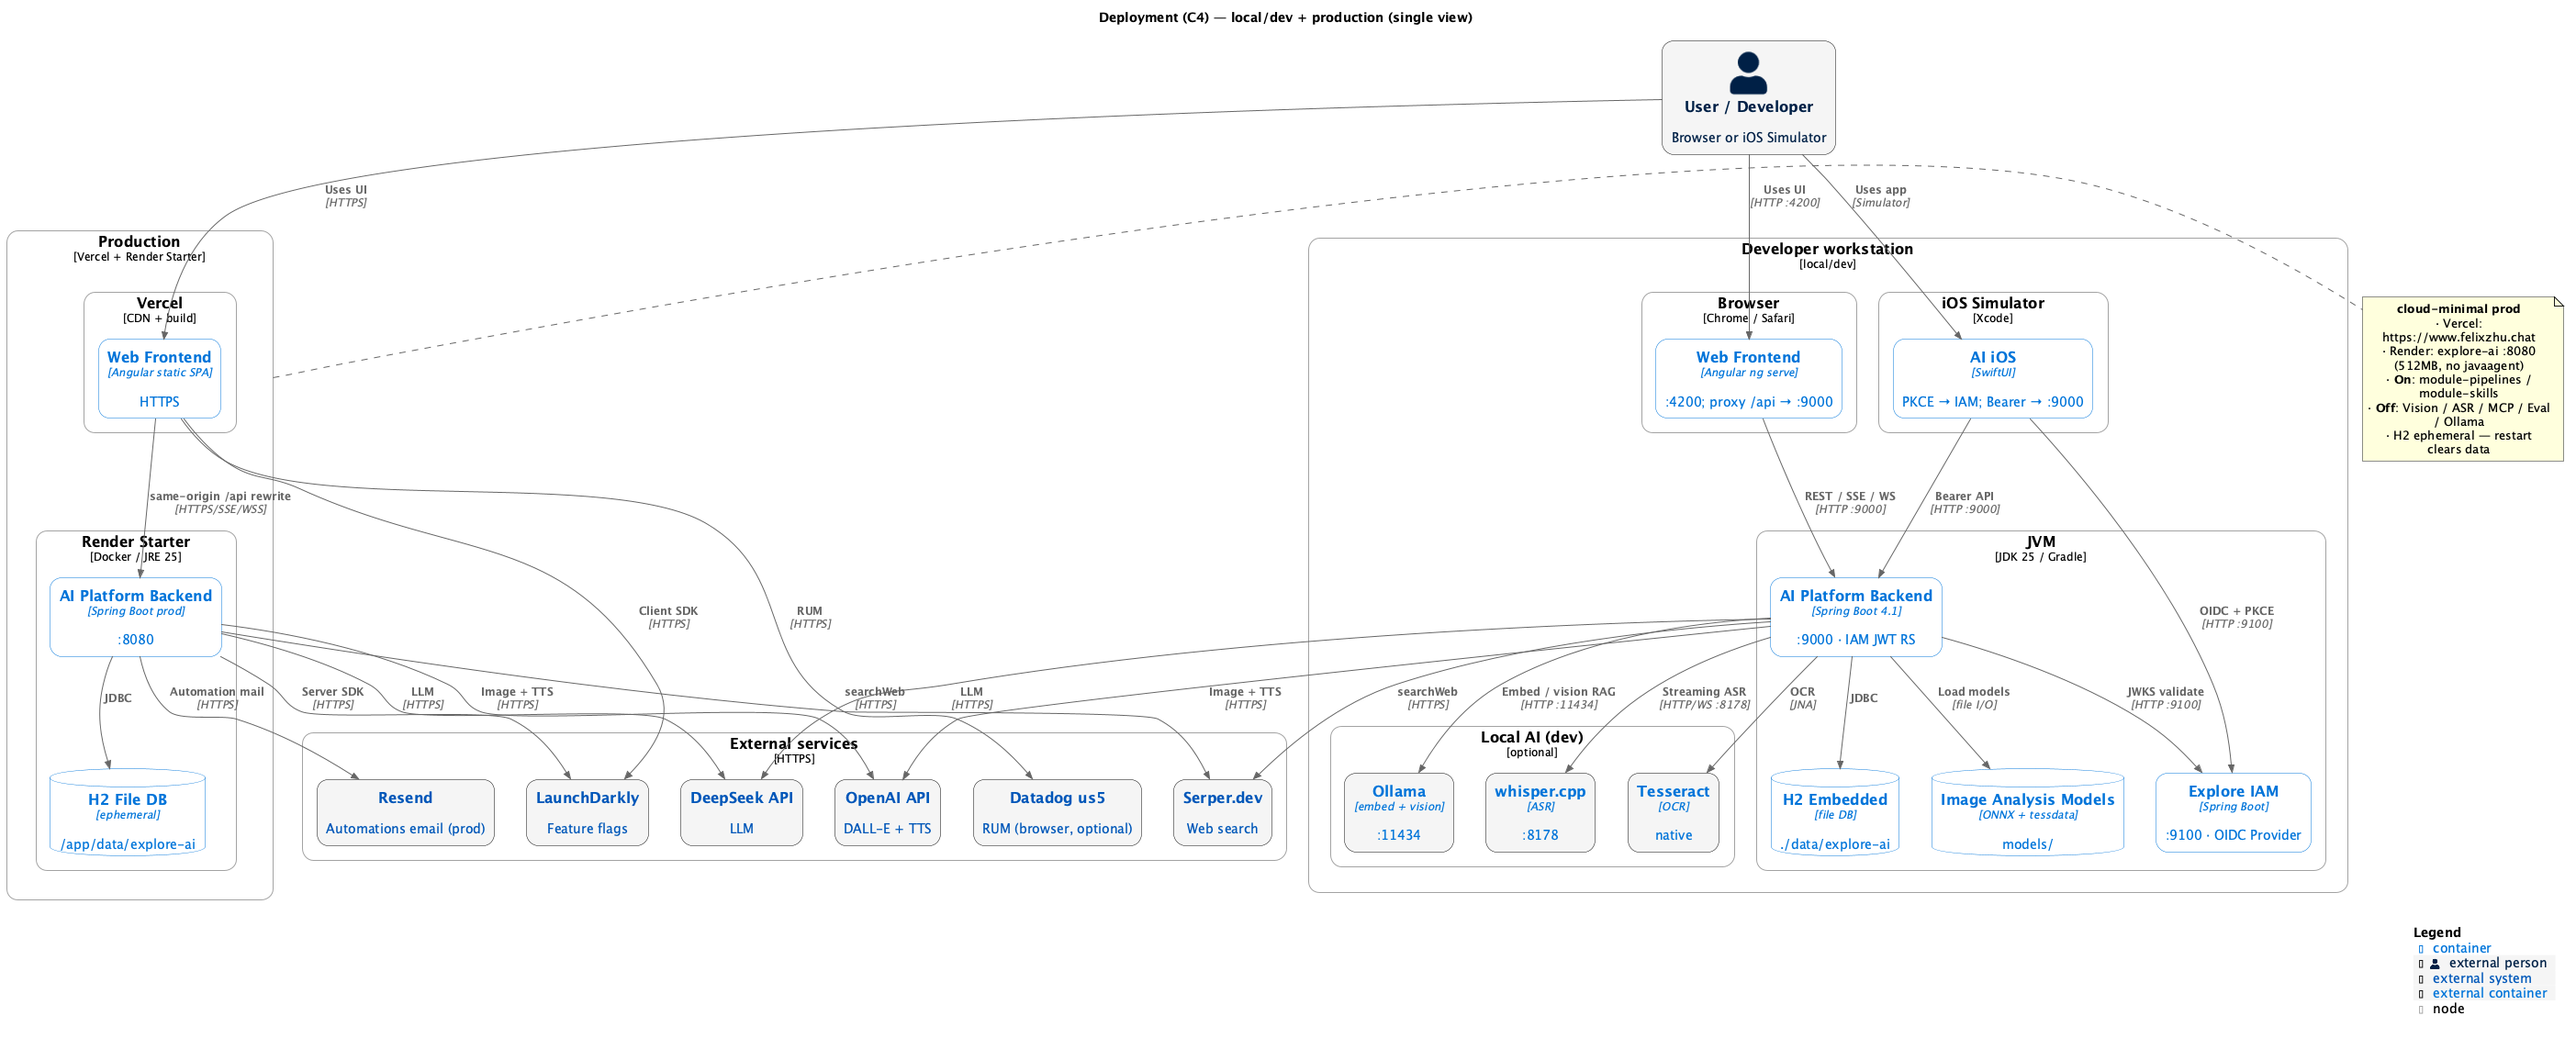
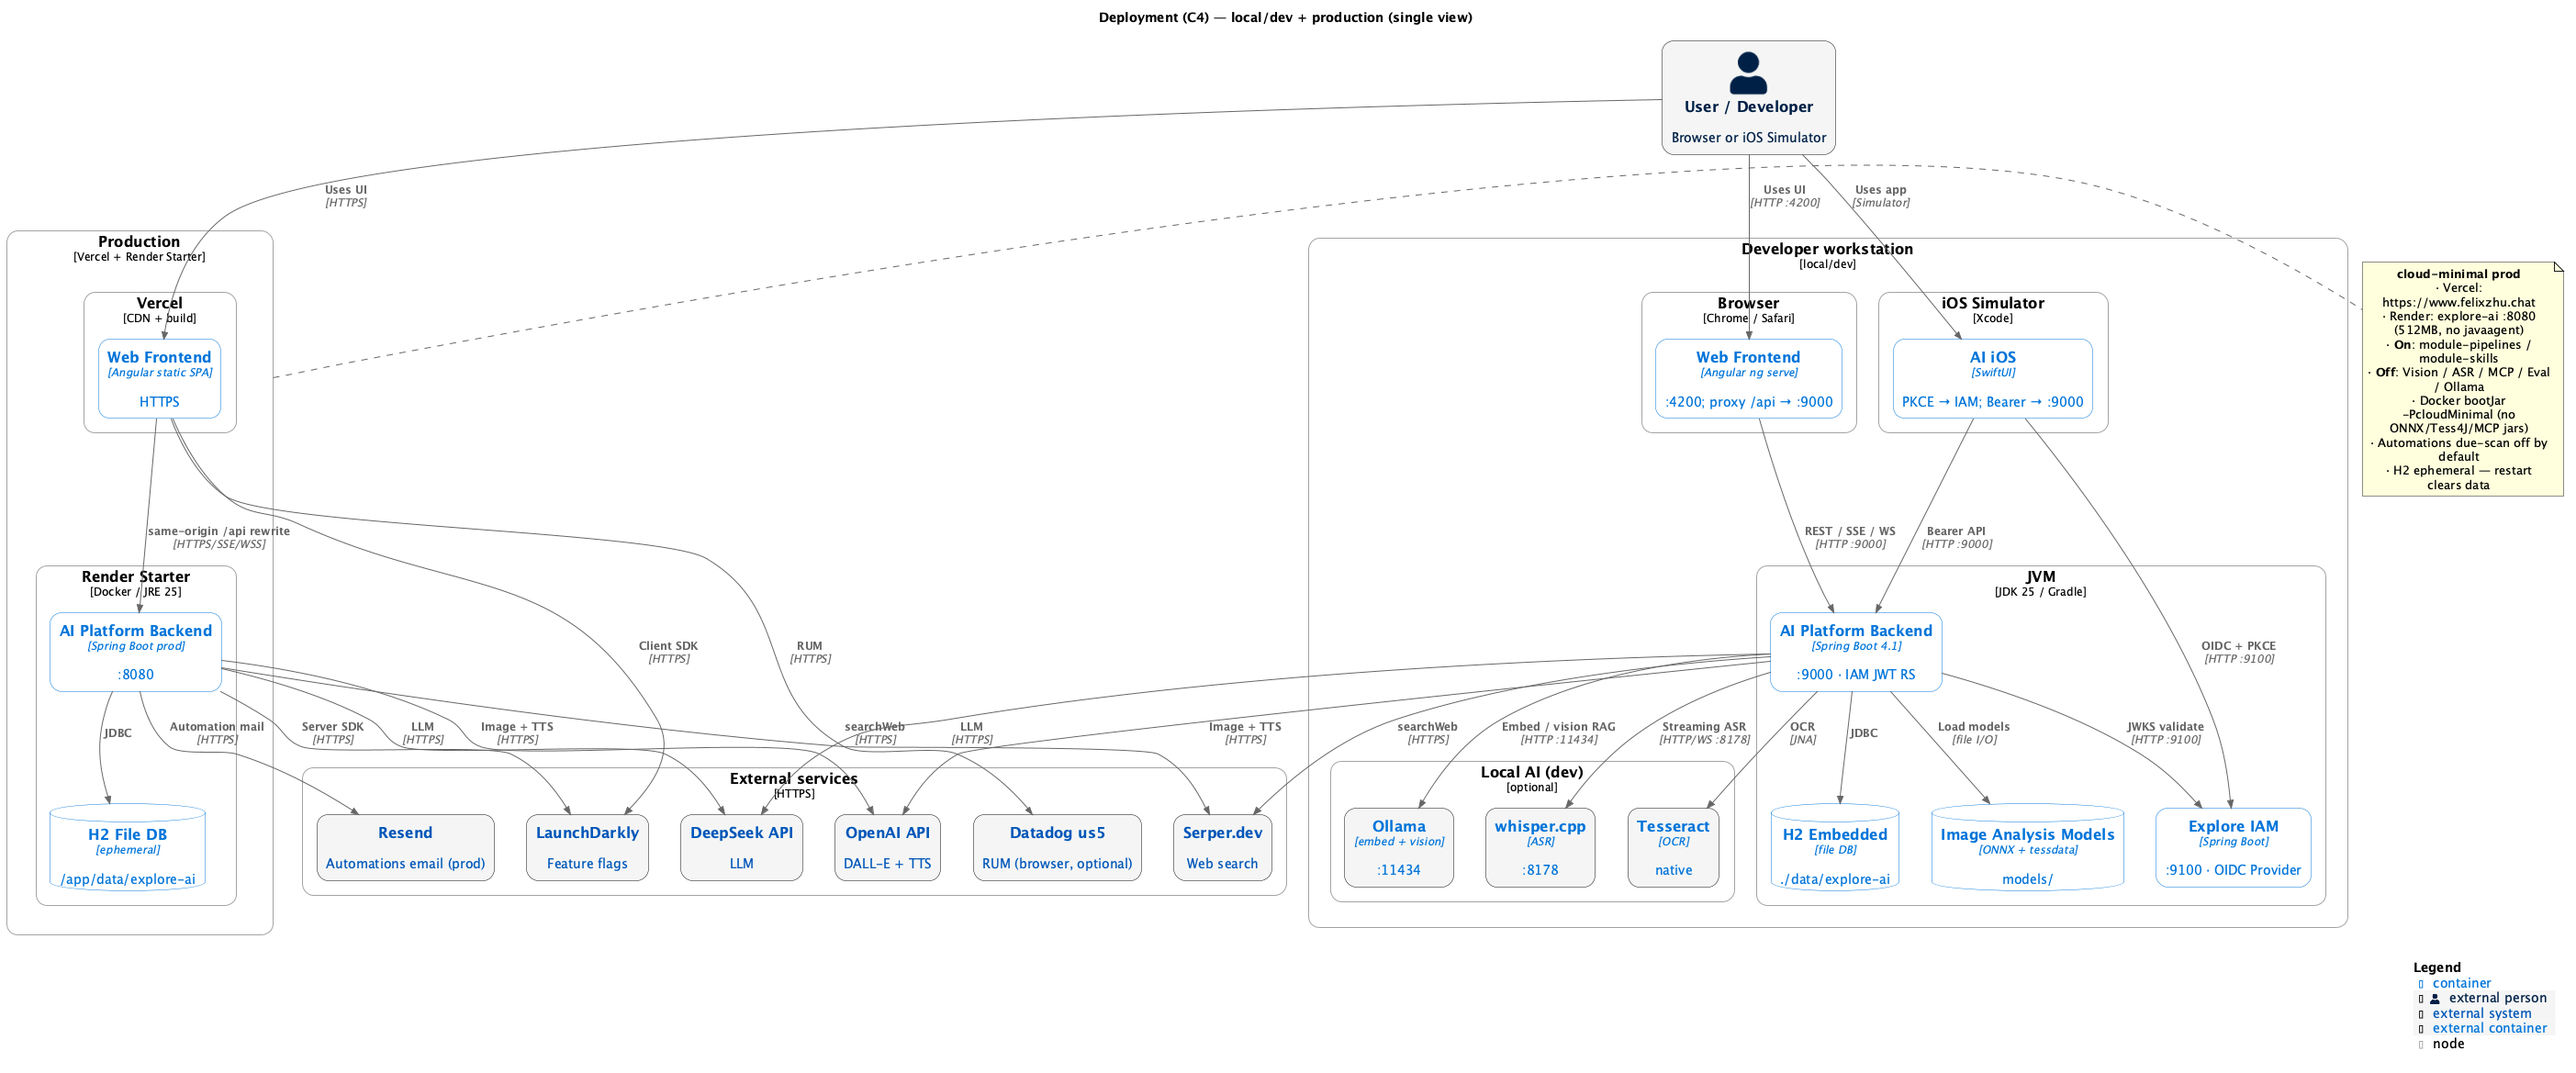
Shrink Render cloud-minimal AI runtime footprint
Drop unused Ollama embedding and automation scans in prod,
build the Docker fat JAR without ONNX/Tess4J/MCP, and gate
lab module beans so Starter RAM goes to Chat instead of idle
classpath weight.

References:

- https://docs.spring.io/spring-boot/reference/features/developing-auto-configuration.html#features.developing-auto-configuration.condition-annotations
- https://docs.spring.io/spring-ai/reference/2.0-SNAPSHOT/api/embeddings/ollama-embeddings.html
- https://docs.gradle.org/current/userguide/java_library_plugin.html#sec:java_library_configurations_graph
- https://render.com/docs/docker

diff --git a/ai/src/test/java/com/ai/metrics/infra/health/DomainHealthGatewayTest.java b/ai/src/test/java/com/ai/metrics/infra/health/DomainHealthGatewayTest.java
@@ -3,6 +3,7 @@ package com.ai.metrics.infra.health;
 import static org.assertj.core.api.Assertions.assertThat;
 import static org.mockito.ArgumentMatchers.eq;
 import static org.mockito.ArgumentMatchers.isNull;
+import static org.mockito.Mockito.lenient;
 import static org.mockito.Mockito.mock;
 import static org.mockito.Mockito.when;
 
@@ -19,6 +20,7 @@ import org.junit.jupiter.api.Test;
 import org.junit.jupiter.api.extension.ExtendWith;
 import org.mockito.Mock;
 import org.mockito.junit.jupiter.MockitoExtension;
+import org.springframework.beans.factory.ObjectProvider;
 
 @ExtendWith(MockitoExtension.class)
 @DisplayName("DomainHealthGateway")
@@ -28,11 +30,14 @@ class DomainHealthGatewayTest {
 
   @Mock private McpFacade mcpFacade;
 
+  @Mock private ObjectProvider<McpFacade> mcpFacadeProvider;
+
   private DomainHealthGateway gateway;
 
   @BeforeEach
   void setUp() {
-    gateway = new DomainHealthGateway(pipelineFacade, mcpFacade);
+    lenient().when(mcpFacadeProvider.getIfAvailable()).thenReturn(mcpFacade);
+    gateway = new DomainHealthGateway(pipelineFacade, mcpFacadeProvider);
   }
 
   @Test
@@ -92,5 +97,18 @@ class DomainHealthGatewayTest {
     assertThat(health).containsEntry("status", "UP");
     assertThat(health).containsEntry("registeredTools", 5);
     assertThat(health).containsEntry("connectedServers", 2);
+  }
+
+  @Test
+  @DisplayName("should report mcp disabled when facade bean is absent")
+  void shouldReportMcpDisabledWhenFacadeBeanIsAbsent() {
+    when(mcpFacadeProvider.getIfAvailable()).thenReturn(null);
+    gateway = new DomainHealthGateway(pipelineFacade, mcpFacadeProvider);
+
+    Map<String, Object> health = gateway.mcpHealth();
+
+    assertThat(health).containsEntry("status", "DISABLED");
+    assertThat(health).containsEntry("registeredTools", 0);
+    assertThat(health).containsEntry("connectedServers", 0);
   }
 }

diff --git a/ai/src/main/java/com/ai/metrics/infra/health/DomainHealthGateway.java b/ai/src/main/java/com/ai/metrics/infra/health/DomainHealthGateway.java
@@ -7,6 +7,7 @@ import com.ai.pipeline.service.usecase.PipelineFacade;
 import java.util.LinkedHashMap;
 import java.util.List;
 import java.util.Map;
+import org.springframework.beans.factory.ObjectProvider;
 import org.springframework.stereotype.Component;
 
 /** Documentation. */
@@ -14,10 +15,10 @@ import org.springframework.stereotype.Component;
 public class DomainHealthGateway implements MetricsHealthGateway {
 
   private final PipelineFacade pipelineFacade;
-  private final McpFacade mcpFacade;
+  private final ObjectProvider<McpFacade> mcpFacade;
 
   /** Documentation. */
-  public DomainHealthGateway(PipelineFacade pipelineFacade, McpFacade mcpFacade) {
+  public DomainHealthGateway(PipelineFacade pipelineFacade, ObjectProvider<McpFacade> mcpFacade) {
     this.pipelineFacade = pipelineFacade;
     this.mcpFacade = mcpFacade;
   }
@@ -41,9 +42,16 @@ public class DomainHealthGateway implements MetricsHealthGateway {
   @Override
   public Map<String, Object> mcpHealth() {
     Map<String, Object> result = new LinkedHashMap<>();
+    McpFacade facade = mcpFacade.getIfAvailable();
+    if (facade == null) {
+      result.put("status", "DISABLED");
+      result.put("registeredTools", 0);
+      result.put("connectedServers", 0);
+      return result;
+    }
     result.put("status", "UP");
-    result.put("registeredTools", mcpFacade.getTotalToolCount());
-    result.put("connectedServers", mcpFacade.getConnectedServers().size());
+    result.put("registeredTools", facade.getTotalToolCount());
+    result.put("connectedServers", facade.getConnectedServers().size());
     return result;
   }
 }

diff --git a/ai/src/main/java/com/ai/mcp/controller/McpClientController.java b/ai/src/main/java/com/ai/mcp/controller/McpClientController.java
@@ -7,6 +7,7 @@ import java.util.List;
 import java.util.Map;
 import org.slf4j.Logger;
 import org.slf4j.LoggerFactory;
+import org.springframework.boot.autoconfigure.condition.ConditionalOnProperty;
 import org.springframework.http.ResponseEntity;
 import org.springframework.web.bind.annotation.GetMapping;
 import org.springframework.web.bind.annotation.PostMapping;
@@ -18,6 +19,11 @@ import org.springframework.web.bind.annotation.RestController;
 @RestController
 @RequestMapping("/api/mcp/client")
 @Tag(name = "MCP Client", description = "Connect to external MCP servers and use their tools")
+@ConditionalOnProperty(
+    prefix = "launchdarkly.bootstrap",
+    name = "module-mcp",
+    havingValue = "true",
+    matchIfMissing = false)
 public class McpClientController {
 
   private static final Logger log = LoggerFactory.getLogger(McpClientController.class);

diff --git a/ai/src/main/java/com/ai/eval/controller/EvalController.java b/ai/src/main/java/com/ai/eval/controller/EvalController.java
@@ -8,6 +8,7 @@ import com.ai.eval.service.usecase.ChatQualityEvaluator;
 import jakarta.validation.Valid;
 import org.slf4j.Logger;
 import org.slf4j.LoggerFactory;
+import org.springframework.boot.autoconfigure.condition.ConditionalOnProperty;
 import org.springframework.http.ResponseEntity;
 import org.springframework.web.bind.annotation.PostMapping;
 import org.springframework.web.bind.annotation.RequestBody;
@@ -17,6 +18,11 @@ import org.springframework.web.bind.annotation.RestController;
 /** REST controller for chat evaluation endpoints. */
 @RestController
 @RequestMapping("/api/eval")
+@ConditionalOnProperty(
+    prefix = "launchdarkly.bootstrap",
+    name = "module-eval",
+    havingValue = "true",
+    matchIfMissing = false)
 public class EvalController {
 
   private static final Logger log = LoggerFactory.getLogger(EvalController.class);

diff --git a/ai/src/main/java/com/ai/mcp/controller/McpController.java b/ai/src/main/java/com/ai/mcp/controller/McpController.java
@@ -3,6 +3,7 @@ package com.ai.mcp.controller;
 import io.swagger.v3.oas.annotations.Operation;
 import io.swagger.v3.oas.annotations.tags.Tag;
 import java.util.Map;
+import org.springframework.boot.autoconfigure.condition.ConditionalOnProperty;
 import org.springframework.http.ResponseEntity;
 import org.springframework.web.bind.annotation.GetMapping;
 import org.springframework.web.bind.annotation.RequestMapping;
@@ -12,6 +13,11 @@ import org.springframework.web.bind.annotation.RestController;
 @RestController
 @RequestMapping("/api/mcp")
 @Tag(name = "MCP Server", description = "MCP Server management")
+@ConditionalOnProperty(
+    prefix = "launchdarkly.bootstrap",
+    name = "module-mcp",
+    havingValue = "true",
+    matchIfMissing = false)
 public class McpController {
   /** Documentation. */
   @GetMapping("/health")

diff --git a/ai/src/main/java/com/ai/eval/infra/golden/GoldenRagFixtureSeeder.java b/ai/src/main/java/com/ai/eval/infra/golden/GoldenRagFixtureSeeder.java
@@ -10,6 +10,7 @@ import java.util.Locale;
 import java.util.Map;
 import org.slf4j.Logger;
 import org.slf4j.LoggerFactory;
+import org.springframework.boot.autoconfigure.condition.ConditionalOnProperty;
 import org.springframework.core.io.Resource;
 import org.springframework.core.io.support.PathMatchingResourcePatternResolver;
 import org.springframework.stereotype.Component;
@@ -19,6 +20,11 @@ import org.springframework.stereotype.Component;
  * Resolves logical fixture keys (filename without extension) to uploaded document UUIDs.
  */
 @Component
+@ConditionalOnProperty(
+    prefix = "launchdarkly.bootstrap",
+    name = "module-eval",
+    havingValue = "true",
+    matchIfMissing = false)
 public class GoldenRagFixtureSeeder {
 
   private static final Logger log = LoggerFactory.getLogger(GoldenRagFixtureSeeder.class);

diff --git a/ai/src/test/java/com/ai/mcp/controller/McpClientControllerTest.java b/ai/src/test/java/com/ai/mcp/controller/McpClientControllerTest.java
@@ -15,12 +15,19 @@ import org.junit.jupiter.api.Test;
 import org.springframework.beans.factory.annotation.Autowired;
 import org.springframework.http.HttpStatus;
 import org.springframework.http.MediaType;
+import org.springframework.test.context.DynamicPropertyRegistry;
+import org.springframework.test.context.DynamicPropertySource;
 import org.springframework.test.context.bean.override.mockito.MockitoBean;
 import org.springframework.test.web.servlet.assertj.MockMvcTester;
 
 @SliceWebMvcTest(controllers = McpClientController.class)
 @DisplayName("McpClientController")
 class McpClientControllerTest {
+
+  @DynamicPropertySource
+  static void enableMcpModule(DynamicPropertyRegistry registry) {
+    registry.add("launchdarkly.bootstrap.module-mcp", () -> "true");
+  }
 
   @Autowired private MockMvcTester mvc;
 

diff --git a/ai/src/main/java/com/ai/eval/service/usecase/OfficialSpringAiEvaluators.java b/ai/src/main/java/com/ai/eval/service/usecase/OfficialSpringAiEvaluators.java
@@ -8,6 +8,7 @@ import org.springframework.ai.chat.evaluation.RelevancyEvaluator;
 import org.springframework.ai.document.Document;
 import org.springframework.ai.evaluation.EvaluationRequest;
 import org.springframework.ai.evaluation.EvaluationResponse;
+import org.springframework.boot.autoconfigure.condition.ConditionalOnProperty;
 import org.springframework.stereotype.Service;
 
 /**
@@ -16,6 +17,11 @@ import org.springframework.stereotype.Service;
  * @see <a href="https://docs.spring.io/spring-ai/reference/api/testing.html">Evaluation Testing</a>
  */
 @Service
+@ConditionalOnProperty(
+    prefix = "launchdarkly.bootstrap",
+    name = "module-eval",
+    havingValue = "true",
+    matchIfMissing = false)
 public class OfficialSpringAiEvaluators {
 
   private final RelevancyEvaluator relevancyEvaluator;

diff --git a/ai/src/main/java/com/ai/eval/service/usecase/ChatQualityEvaluator.java b/ai/src/main/java/com/ai/eval/service/usecase/ChatQualityEvaluator.java
@@ -13,6 +13,7 @@ import org.springframework.ai.chat.client.AdvisorParams;
 import org.springframework.ai.chat.client.ChatClient;
 import org.springframework.ai.chat.messages.UserMessage;
 import org.springframework.beans.factory.annotation.Qualifier;
+import org.springframework.boot.autoconfigure.condition.ConditionalOnProperty;
 import org.springframework.stereotype.Service;
 
 /**
@@ -20,6 +21,11 @@ import org.springframework.stereotype.Service;
  * RelevancyEvaluator and FactCheckingEvaluator for RAG-style evaluation.
  */
 @Service
+@ConditionalOnProperty(
+    prefix = "launchdarkly.bootstrap",
+    name = "module-eval",
+    havingValue = "true",
+    matchIfMissing = false)
 public class ChatQualityEvaluator {
 
   private static final Logger log = LoggerFactory.getLogger(ChatQualityEvaluator.class);

diff --git a/ai/src/main/java/com/ai/mcp/infra/config/McpClientToolsConfig.java b/ai/src/main/java/com/ai/mcp/infra/config/McpClientToolsConfig.java
@@ -15,6 +15,11 @@ import org.springframework.context.annotation.Configuration;
  * exposes them for {@link com.ai.common.infra.llm.ChatClientFactory}.
  */
 @Configuration
+@ConditionalOnProperty(
+    prefix = "launchdarkly.bootstrap",
+    name = "module-mcp",
+    havingValue = "true",
+    matchIfMissing = false)
 public class McpClientToolsConfig {
 
   private static final Logger log = LoggerFactory.getLogger(McpClientToolsConfig.class);
@@ -25,7 +30,7 @@ public class McpClientToolsConfig {
       prefix = "spring.ai.mcp.client",
       name = "enabled",
       havingValue = "true",
-      matchIfMissing = true)
+      matchIfMissing = false)
   public ToolCallback[] mcpToolCallbacks(
       ObjectProvider<ToolCallbackProvider> toolCallbackProviders,
       McpToolCallbackRegistry registry) {

diff --git a/ai/src/test/java/com/ai/eval/EvalControllerTest.java b/ai/src/test/java/com/ai/eval/EvalControllerTest.java
@@ -15,12 +15,19 @@ import org.junit.jupiter.api.Nested;
 import org.junit.jupiter.api.Test;
 import org.springframework.beans.factory.annotation.Autowired;
 import org.springframework.http.MediaType;
+import org.springframework.test.context.DynamicPropertyRegistry;
+import org.springframework.test.context.DynamicPropertySource;
 import org.springframework.test.context.bean.override.mockito.MockitoBean;
 import org.springframework.test.web.servlet.assertj.MockMvcTester;
 
 @SliceWebMvcTest(controllers = EvalController.class)
 @DisplayName("EvalController")
 class EvalControllerTest {
+
+  @DynamicPropertySource
+  static void enableEvalModule(DynamicPropertyRegistry registry) {
+    registry.add("launchdarkly.bootstrap.module-eval", () -> "true");
+  }
 
   @Autowired private MockMvcTester mvc;
 

diff --git a/ai/src/main/java/com/ai/mcp/infra/config/McpClientResilienceConfig.java b/ai/src/main/java/com/ai/mcp/infra/config/McpClientResilienceConfig.java
@@ -10,10 +10,15 @@ import org.springframework.context.annotation.Configuration;
 
 /** Documentation. */
 @Configuration
-@ConditionalOnProperty(prefix = "spring.ai.mcp.client", name = "enabled", havingValue = "true")
+@ConditionalOnProperty(
+    prefix = "launchdarkly.bootstrap",
+    name = "module-mcp",
+    havingValue = "true",
+    matchIfMissing = false)
 public class McpClientResilienceConfig {
 
   @Bean
+  @ConditionalOnProperty(prefix = "spring.ai.mcp.client", name = "enabled", havingValue = "true")
   McpClientCustomizer<McpClient.SyncSpec> mcpClientTimeoutCustomizer(
       @Value("${spring.ai.mcp.client.request-timeout:20s}") Duration requestTimeout) {
     return (serverConfigurationName, spec) -> {
